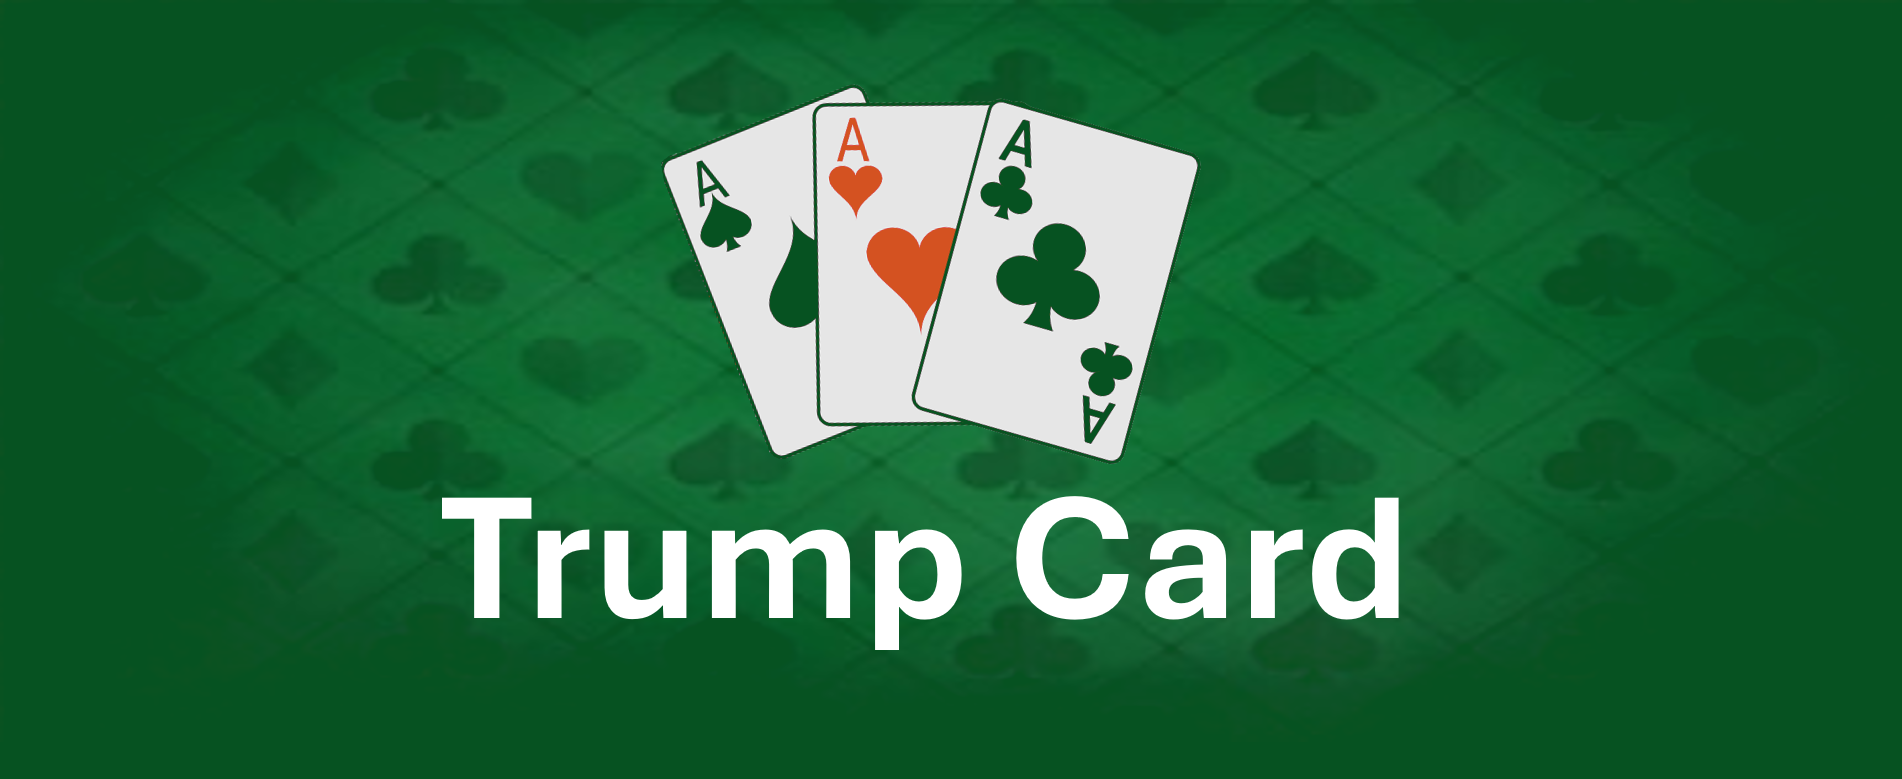
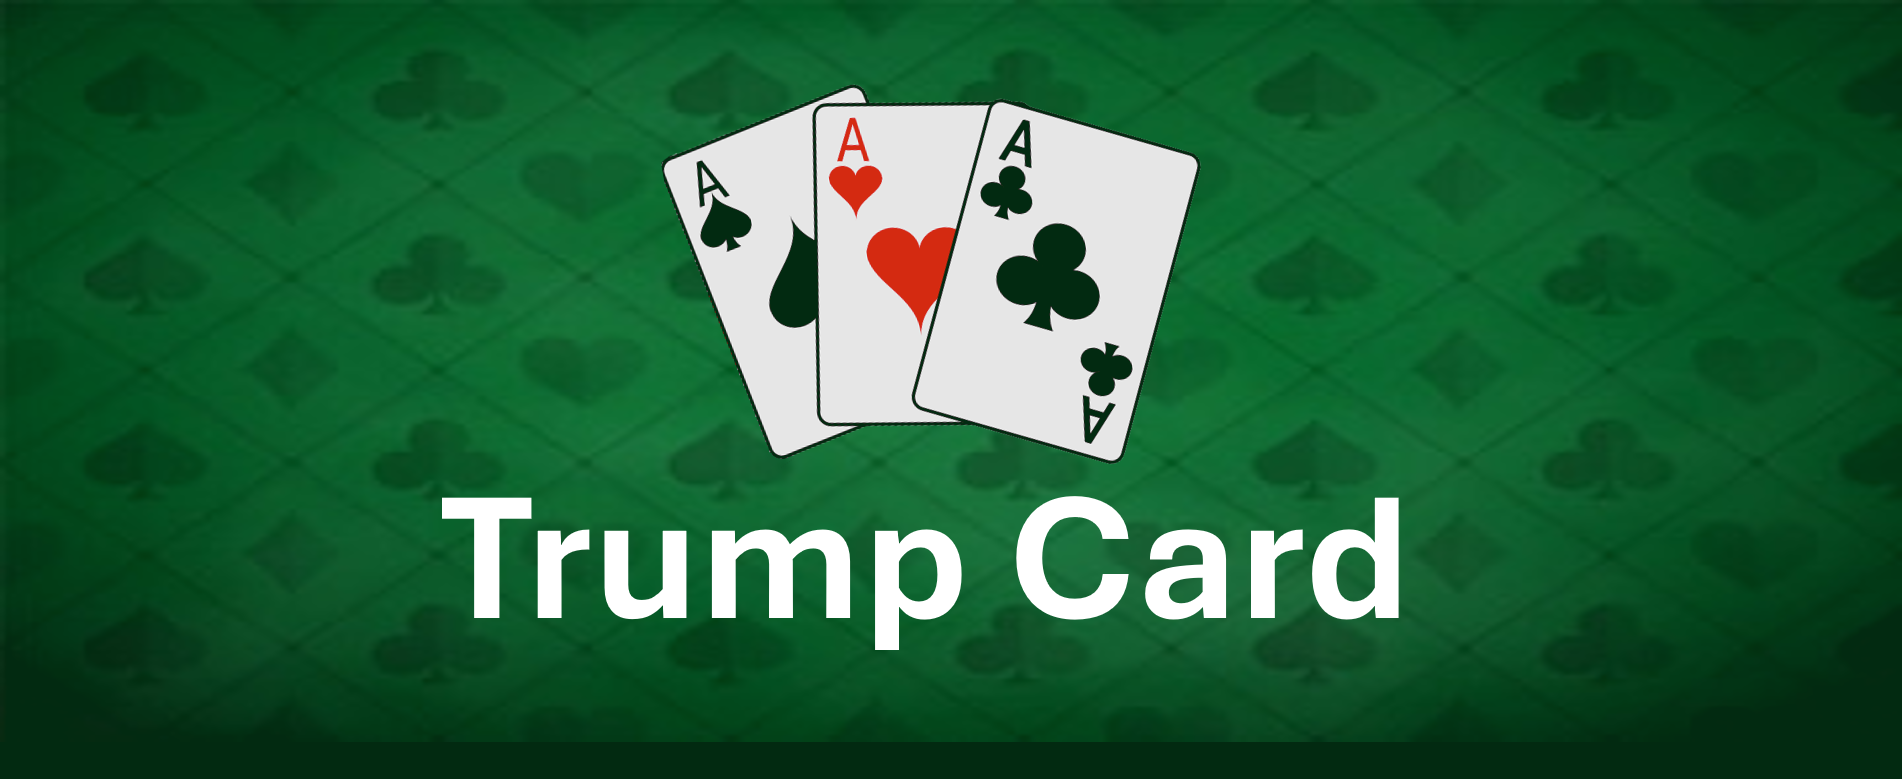
Reorganise Completed tab into a top-6 + grouped layout, move CV Mix and Match in
- Reorder Completed projects so the default-visible first 6 are the
  strongest work: IbrahimIF.dev, CricketAI, Client Medical Database,
  Covelopers, Covelopers Portal, Team Catalyst Media Analysis Platform
- Group the rest in sets of 3 by theme (hackathons/personal, client sites,
  Offdays suite, utility tools, language/stack showcases, university work)
- Move CV Mix and Match from In Progress into Completed (id 38), reducing
  In Progress to 5 pending a replacement project
- Re-tone the Trump Card banner - previous fix over-saturated the green and
  tinted the white card graphics, dialed the floor back so the vignette is
  gone without washing out the cards

Claude-Session: https://claude.ai/code/session_01U8WLT8WZBfLKhbpRtPPQfY

diff --git a/src/Components/Sections/Projects/Cards/completed.jsx b/src/Components/Sections/Projects/Cards/completed.jsx
@@ -35,6 +35,44 @@ function Completed({counter}) {
       githubLink: "https://github.com/IbrahimIF/IbrahimIF.github.io"
     },
     {
+      id: 35,
+      banner: './assets/Projects/Banner-CAI.png',
+      bgcolor: "#ffffff",
+      title: "CricketAI",
+      description: "Delivered an AI powered assessment platform for an early-stage EdTech client, through The Cloud Crew, a Capgemini partner, with technical coaching from a Capgemini Technical Coach.\nTakes student essay submissions in PDF form, validates and scores them against a set of competencies, and serves results through a REST API.",
+      technologies: ["FastAPI", "OpenAI API", "SQLite"],
+    },
+    {
+      id: 3,
+      banner: './assets/Projects/Banner-CDS.png',
+      bgcolor: "#002439",
+      title: "Client Medical Database",
+      description: "Built an offline patient database application using TypeScript and SQLite for remote healthcare delivery. \nImplemented secure local persistence and a modular MVP architecture to ensure field-ready scalability.",
+      technologies: ["T3", "TypeScript", "SQLite"],
+      linkedinLink: "https://lnkd.in/p/eWCYqV_W",
+      githubLink: "https://github.com/Covelopers/Client-Database-Application",
+    },
+    {
+      id: 7,
+      banner: './assets/Projects/Banner-CDS.png',
+      bgcolor: "#002439",
+      title: "Covelopers",
+      description: "The official website for Covelopers, a software startup based in London.\nShowcases the team, services and projects with a clean, responsive interface.",
+      technologies: ["React + Vite", "TypeScript", "Supabase"],
+      githubLink: "https://github.com/Covelopers/Main-Site",
+      demoLink: "https://covelopers.com/",
+    },
+    {
+      id: 37,
+      banner: './assets/Projects/Banner-CDS.png',
+      bgcolor: "#002439",
+      title: "Covelopers Portal",
+      description: "The member portal for Covelopers, where the community accesses resources, projects and progress tracking.",
+      technologies: ["React + Vite", "TypeScript", "Supabase"],
+      linkedinLink: "https://lnkd.in/p/eFnSK54B",
+      demoLink: "https://portal.covelopers.com/",
+    },
+    {
       id: 2,
       banner: './assets/Projects/Banner-BBC.png',
       bgcolor: "#c6f8a1",
@@ -54,14 +92,73 @@ function Completed({counter}) {
       videoLink: "./assets/Video/EAIH.mp4"
     },
     {
-      id: 3,
-      banner: './assets/Projects/Banner-CDS.png',
-      bgcolor: "#002439",
-      title: "Client Medical Database",
-      description: "Built an offline patient database application using TypeScript and SQLite for remote healthcare delivery. \nImplemented secure local persistence and a modular MVP architecture to ensure field-ready scalability.",
-      technologies: ["T3", "TypeScript", "SQLite"],
-      linkedinLink: "https://lnkd.in/p/eWCYqV_W",
-      githubLink: "https://github.com/Covelopers/Client-Database-Application",
+      id: 34,
+      banner: './assets/Projects/Banner-TC.png',
+      bgcolor: "#03431a",
+      title: "Trump Card",
+      description: "A visual card deck for tracking everything you have going for you — plans, opportunities, connections, credentials and resources.\nBuilt so you never forget what's in your hand.",
+      technologies: ["React + Vite", "TypeScript", "PWA"],
+      demoLink: "https://trump1card.netlify.app/",
+      githubLink: "https://github.com/IbrahimIF/trump-card",
+    },
+    {
+      id: 36,
+      banner: './assets/Projects/Banner-CVA.png',
+      bgcolor: "#ffffff",
+      title: "Claude Voice Assistant",
+      description: "A standalone desktop application for real time voice conversation with Claude.\nHandles speech to text and text to speech so you can talk to Claude naturally instead of typing.",
+      technologies: ["Electron", "ElevenLabs API", "Node.js"],
+    },
+    {
+      id: 13,
+      banner: './assets/Events/the_orange_trust.png',
+      title: "The Orange Trust Site",
+      bgcolor: "Orange",
+      description: "An interactive website developed for The Orange Trust, an official NGO aiding disadvantaged communities.\nSignificantly increased brand awareness, social engagement, and client interaction for the charity.",
+      technologies: ["Figma", "Trello"],
+      linkedinLink: "https://lnkd.in/p/eGA73M9v",
+      demoLink: "https://www.orangetrust.co.uk/",
+    },
+    {
+      id: 14,
+      banner: './assets/Projects/Banner-PSA.png',
+      title: "Pinnacle Studio Architecture",
+      description: "A responsive website developed for a private client, showcasing their various architectural projects.\nLed the agile development, managing design and implementation to client specifications.",
+      technologies: ["React + Vite", "JavaScript", "CSS"],
+      linkedinLink: "https://lnkd.in/p/eHw3S-Mp"
+    },
+    {
+      id: 38,
+      banner: './assets/Projects/Banner-CVMM.png',
+      bgcolor: "#ffffffff",
+      title: "CV Mix and Match",
+      description: "A tool that lets users mix and match different sections to tailor their CV for specific companies or roles.",
+      technologies: ["React + Vite", "FastAPI", "PostgreSQL"],
+      videoLink: "./assets/Video/CVMM.mp4",
+    },
+    {
+      id: 8,
+      banner: './assets/Projects/Banner-OA.png',
+      title: "Offdays-Accrual",
+      description: "A project developed as part of my work with Offdays, where I built Accrual. \nHelps users calculate their accrued annual leave and pro-rata entitlement quickly and easily.",
+      technologies: ["React + Vite", "TypeScript", "Chakra-UI"],
+      demoLink: "https://offdays.io/",
+    },
+    {
+      id: 9,
+      banner: './assets/Projects/Banner-OT.png',
+      title: "Offdays-Toolkit",
+      description: "A project developed as part of my work with Offdays, where I built Toolkit. \nServes as a central hub to showcase and access various Offdays tools, improving discoverability and usability for users.",
+      technologies: ["React + Vite", "TypeScript", "Chakra-UI"],
+      demoLink: "https://offdays.io/",
+    },
+    {
+      id: 10,
+      banner: './assets/Projects/Banner-OS.png',
+      title: "Offdays-Shareables",
+      description: "A project developed as part of my work with Offdays, where I built Shareables. \nHelps users easily create branded, social-media-friendly images to announce their out-of-office status.",
+      technologies: ["React + Vite", "TypeScript", "Chakra-UI"],
+      demoLink: "https://offdays.io/",
     },
     {
       id: 4,
@@ -93,76 +190,6 @@ function Completed({counter}) {
       demoLink: "https://adkhardaily.netlify.app/"
     },
     {
-      id: 34,
-      banner: './assets/Projects/Banner-TC.png',
-      bgcolor: "#065221",
-      title: "Trump Card",
-      description: "A visual card deck for tracking everything you have going for you — plans, opportunities, connections, credentials and resources.\nBuilt so you never forget what's in your hand.",
-      technologies: ["React + Vite", "TypeScript", "PWA"],
-      demoLink: "https://trump1card.netlify.app/",
-      githubLink: "https://github.com/IbrahimIF/trump-card",
-    },
-    {
-      id: 35,
-      banner: './assets/Projects/Banner-CAI.png',
-      bgcolor: "#ffffff",
-      title: "CricketAI",
-      description: "Delivered an AI powered assessment platform for an early-stage EdTech client, through The Cloud Crew, a Capgemini partner, with technical coaching from a Capgemini Technical Coach.\nTakes student essay submissions in PDF form, validates and scores them against a set of competencies, and serves results through a REST API.",
-      technologies: ["FastAPI", "OpenAI API", "SQLite"],
-    },
-    {
-      id: 36,
-      banner: './assets/Projects/Banner-CVA.png',
-      bgcolor: "#ffffff",
-      title: "Claude Voice Assistant",
-      description: "A standalone desktop application for real time voice conversation with Claude.\nHandles speech to text and text to speech so you can talk to Claude naturally instead of typing.",
-      technologies: ["Electron", "ElevenLabs API", "Node.js"],
-    },
-    {
-      id: 7,
-      banner: './assets/Projects/Banner-CDS.png',
-      bgcolor: "#002439",
-      title: "Covelopers",
-      description: "The official website for Covelopers, a software startup based in London.\nShowcases the team, services and projects with a clean, responsive interface.",
-      technologies: ["React + Vite", "TypeScript", "Supabase"],
-      githubLink: "https://github.com/Covelopers/Main-Site",
-      demoLink: "https://covelopers.com/",
-    },
-    {
-      id: 37,
-      banner: './assets/Projects/Banner-CDS.png',
-      bgcolor: "#002439",
-      title: "Covelopers Portal",
-      description: "The member portal for Covelopers, where the community accesses resources, projects and progress tracking.",
-      technologies: ["React + Vite", "TypeScript", "Supabase"],
-      linkedinLink: "https://lnkd.in/p/eFnSK54B",
-      demoLink: "https://portal.covelopers.com/",
-    },
-    {
-      id: 8,
-      banner: './assets/Projects/Banner-OA.png',
-      title: "Offdays-Accrual",
-      description: "A project developed as part of my work with Offdays, where I built Accrual. \nHelps users calculate their accrued annual leave and pro-rata entitlement quickly and easily.",
-      technologies: ["React + Vite", "TypeScript", "Chakra-UI"],
-      demoLink: "https://offdays.io/",
-    },
-    {
-      id: 9,
-      banner: './assets/Projects/Banner-OT.png',
-      title: "Offdays-Toolkit",
-      description: "A project developed as part of my work with Offdays, where I built Toolkit. \nServes as a central hub to showcase and access various Offdays tools, improving discoverability and usability for users.",
-      technologies: ["React + Vite", "TypeScript", "Chakra-UI"],
-      demoLink: "https://offdays.io/",
-    },
-    {
-      id: 10,
-      banner: './assets/Projects/Banner-OS.png',
-      title: "Offdays-Shareables",
-      description: "A project developed as part of my work with Offdays, where I built Shareables. \nHelps users easily create branded, social-media-friendly images to announce their out-of-office status.",
-      technologies: ["React + Vite", "TypeScript", "Chakra-UI"],
-      demoLink: "https://offdays.io/",
-    },
-    {
       id: 11,
       banner: './assets/Projects/Banner-F.png',
       bgcolor: "black",
@@ -172,7 +199,7 @@ function Completed({counter}) {
       demoLink: "https://frictionless-beta.vercel.app/",
       githubLink: "https://github.com/IbrahimIF/Frictionless"
     },
-    { 
+    {
       id: 12,
       banner: './assets/Projects/Banner-TS.png',
       title: "ToolShed",
@@ -180,24 +207,6 @@ function Completed({counter}) {
       technologies: ["React + Vite", "Firestore", "Javascript"],
       demoLink: "https://tool-shed.vercel.app/",
       githubLink: "https://github.com/IbrahimIF/ToolShed"
-    },
-    {
-      id: 13,
-      banner: './assets/Events/the_orange_trust.png',
-      title: "The Orange Trust Site",
-      bgcolor: "Orange",
-      description: "An interactive website developed for The Orange Trust, an official NGO aiding disadvantaged communities.\nSignificantly increased brand awareness, social engagement, and client interaction for the charity.",
-      technologies: ["Figma", "Trello"],
-      linkedinLink: "https://lnkd.in/p/eGA73M9v",
-      demoLink: "https://www.orangetrust.co.uk/",
-    },
-    {
-      id: 14,
-      banner: './assets/Projects/Banner-PSA.png',
-      title: "Pinnacle Studio Architecture",
-      description: "A responsive website developed for a private client, showcasing their various architectural projects.\nLed the agile development, managing design and implementation to client specifications.",
-      technologies: ["React + Vite", "JavaScript", "CSS"],
-      linkedinLink: "https://lnkd.in/p/eHw3S-Mp"
     },
     {
       id: 15,
@@ -208,12 +217,12 @@ function Completed({counter}) {
       technologies: ["React", "MySQL", "Node.js"],
       githubLink: "https://github.com/IbrahimIF/Ziphon-LTD"
     },
-    { 
+    {
       id: 16,
-      banner: './assets/Projects/Banner-SERN.png', 
+      banner: './assets/Projects/Banner-SERN.png',
       bgcolor: "#26c3a5",
-      title: "Full-Stack Chat-App", 
-      description: "A simple Full-stack chat app to send and receive messages.", 
+      title: "Full-Stack Chat-App",
+      description: "A simple Full-stack chat app to send and receive messages.",
       technologies: ["React + Vite", "Node.js", "Socket.io"],
       demoLink: "https://fs-chat-app.vercel.app/",
       githubLink: "https://github.com/IbrahimIF/FS-Chat-App"
@@ -247,12 +256,12 @@ function Completed({counter}) {
       technologies: ["Python", "Discord", "Pyaudio"],
       githubLink: "https://github.com/IbrahimIF/Discord-Mute-Yourself"
     },
-    { 
+    {
       id: 20,
       banner: './assets/Projects/Banner-TG.gif',
-      bgcolor: "#000",  
-      title: "Terminal Games", 
-      description: "Repository showcasing python made games that can be played in the terminal of an IDE.", 
+      bgcolor: "#000",
+      title: "Terminal Games",
+      description: "Repository showcasing python made games that can be played in the terminal of an IDE.",
       technologies: ["Python", "tkinter", "Curses"],
       githubLink: "https://github.com/IbrahimIF/Terminal-Games"
     },
@@ -267,24 +276,24 @@ function Completed({counter}) {
     },
     {
       id: 22,
-      banner: './assets/Projects/Banner-TCC.png',   
-      title: "Twitch-Chat-Clone", 
-      description: "A twitch chat clone with React, TypeScript, Tailwind CSS and Socket.io.", 
+      banner: './assets/Projects/Banner-TCC.png',
+      title: "Twitch-Chat-Clone",
+      description: "A twitch chat clone with React, TypeScript, Tailwind CSS and Socket.io.",
       technologies: ["TypeScript", "Tailwind CSS", "Socket.io"],
       demoLink: "https://twitch-chat-clone-chi.vercel.app/",
       githubLink: "https://github.com/IbrahimIF/Twitch-Chat-Clone"
     },
-    { 
+    {
       id: 23,
       banner: './assets/Projects/Banner-P.png',
-      bgcolor: "#ff474d", 
-      title: "Pokedex", 
-      description: "A replica of the pokedex from the pokemon anime.", 
+      bgcolor: "#ff474d",
+      title: "Pokedex",
+      description: "A replica of the pokedex from the pokemon anime.",
       technologies: ["React + Vite", "Tailwind CSS", "PokeAPI"],
       demoLink: "https://pokedex-bice-zeta.vercel.app/",
       githubLink: "https://github.com/IbrahimIF/Pokedex"
     },
-    { 
+    {
       id: 24,
       banner: './assets/Projects/Banner-WLS.png',
       bgcolor: "#000000",
@@ -382,7 +391,7 @@ function Completed({counter}) {
     }
   };
 
-  
+
 
   return (
     <CompletedSection id="completed">
@@ -514,8 +523,8 @@ const ProjectCard = styled.div`
 
   &:hover {
     box-shadow: 0px 0px 30px 1px rgba(0, 73, 198, 0.3);
-  }  
-    
+  }
+
 .project-card {
   width: 100%;
   height: 100%;

diff --git a/src/Components/Sections/Projects/Cards/progress.jsx b/src/Components/Sections/Projects/Cards/progress.jsx
@@ -23,15 +23,6 @@ function InProgress() {
 
   const projects = [
     {
-      id: 1,
-      banner: './assets/Projects/Banner-CVMM.png',
-      bgcolor: "#ffffffff",
-      title: "CV Mix and Match",
-      description: "A tool that lets users mix and match different sections to tailor their CV for specific companies or roles.",
-      technologies: ["React + Vite", "FastAPI", "PostgreSQL"],
-      videoLink: "./assets/Video/CVMM.mp4",
-    },
-    {
       id: 2,
       banner: './assets/Projects/Banner-CDS.png',
       bgcolor: "#002439",
